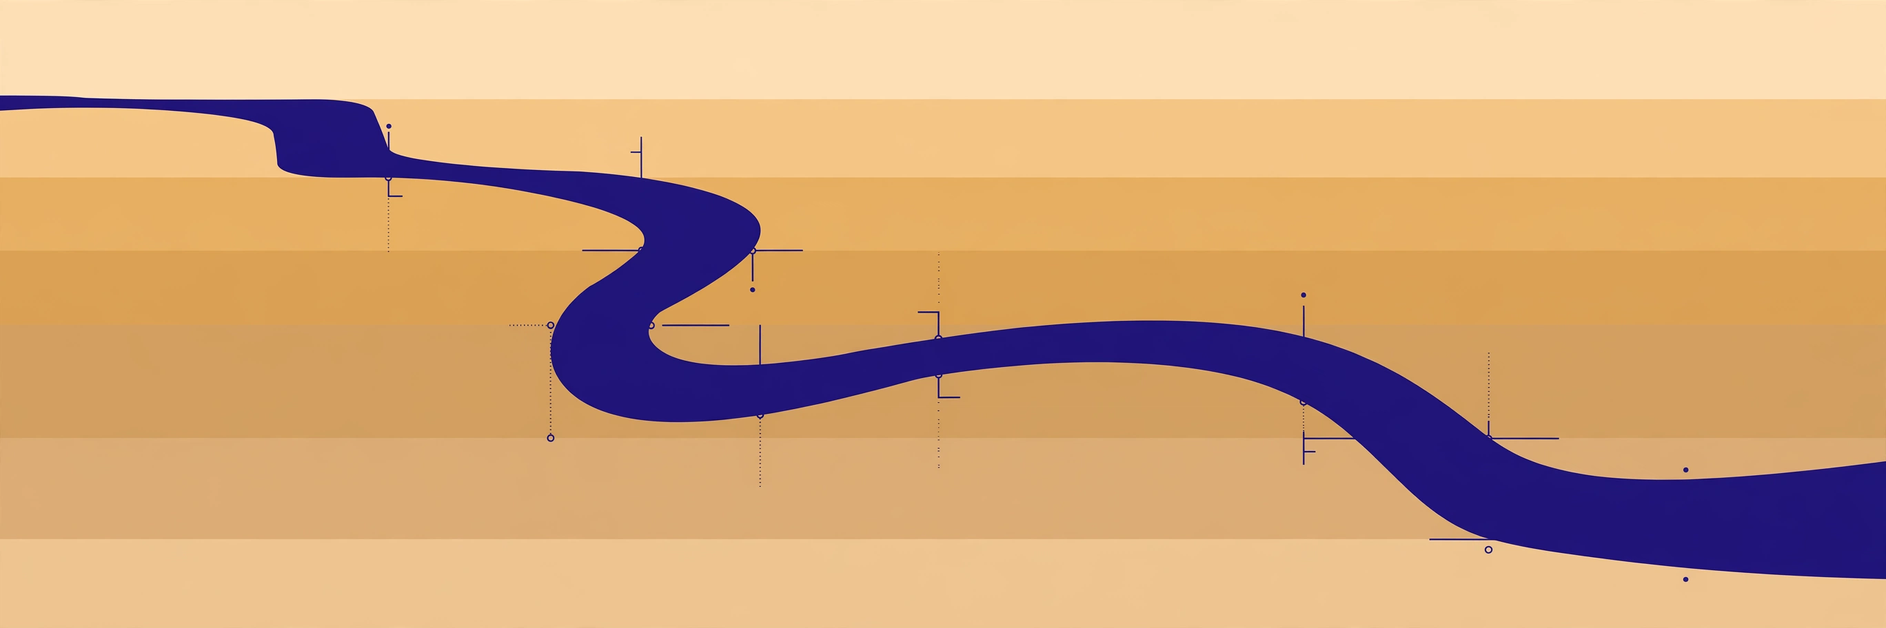
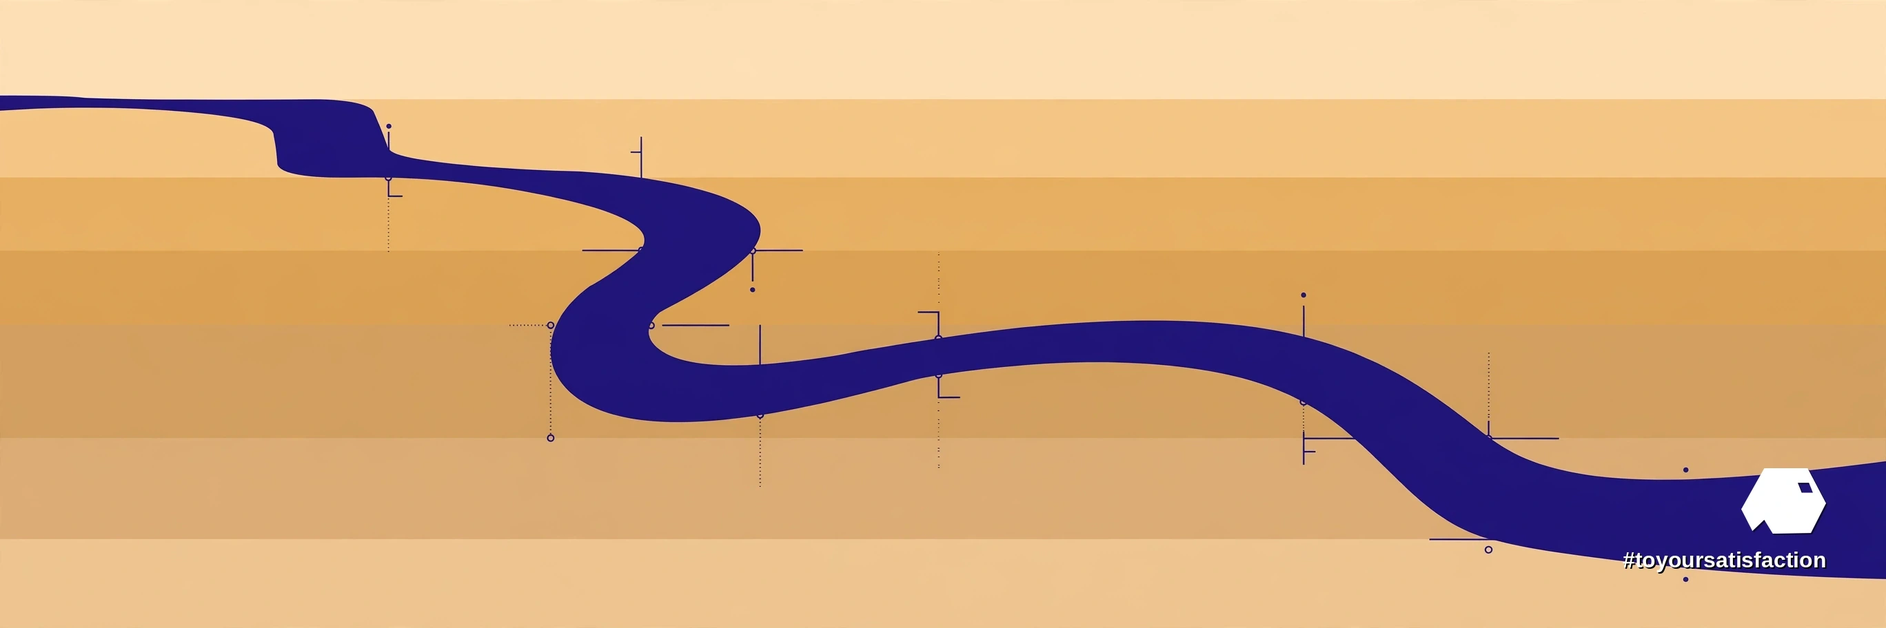
Magazine edition — batch 2

Changed region(s): [[0.8388, 0.7368, 0.9942, 0.9211]]

diff --git a/articles/semantic-layer-learns-the-business/index.html b/articles/semantic-layer-learns-the-business/index.html
@@ -5,42 +5,82 @@
 <meta name="viewport" content="width=device-width, initial-scale=1">
 <meta http-equiv="Content-Security-Policy" content="default-src 'self'; script-src 'self' 'unsafe-inline'; style-src 'self' 'unsafe-inline'; img-src 'self' data:; connect-src 'self' https://api.mymemory.translated.net; object-src 'none'; base-uri 'self'">
 <title>A Correct Metric Is Only Step One: Teaching the Semantic Layer the Business Itself — Ovia Inc</title>
-<meta name="description" content="The Datus October update (October 31, 2026) moves the semantic layer past metric definitions: Datus Agent 0.4.3/0.4.4 adds an OntologyAnalyst subagent and lineage mined from historical SQL, while Dosi 0.2.0 turns business rules like “Premier Customer” into executable, versioned semantics.">
+<meta name="description" content="The Datus October update (October 31, 2026) moves the semantic layer past metric definitions: Datus Agent 0.4.3/0.4.4 adds an OntologyAnalyst subagent and lineage mined from historical SQL, while Dosi 0.2.0 turns business rules like Premier Customer into executable, versioned semantics.">
 <meta property="og:type" content="article">
 <meta property="og:title" content="A Correct Metric Is Only Step One: Teaching the Semantic Layer the Business Itself">
-<meta property="og:description" content="The Datus October update (October 31, 2026) moves the semantic layer past metric definitions: Datus Agent 0.4.3/0.4.4 adds an OntologyAnalyst subagent and lineage mined from historical SQL, while Dosi 0.2.0 turns business rules like “Premier Customer” into executable, versioned semantics.">
+<meta property="og:description" content="The Datus October update (October 31, 2026) moves the semantic layer past metric definitions: Datus Agent 0.4.3/0.4.4 adds an OntologyAnalyst subagent and lineage mined from historical SQL, while Dosi 0.2.0 turns business rules like Premier Customer into executable, versioned semantics.">
 <meta property="og:url" content="https://oviainc.github.io/ai-services/articles/semantic-layer-learns-the-business/">
 <meta property="og:image" content="https://oviainc.github.io/ai-services/articles/semantic-layer-learns-the-business/ovia-inc-semantic-layer-learns-the-business-hero.webp">
 <meta name="twitter:card" content="summary_large_image">
 <style>
-  :root{--bg:#0A0E14;--accent:#2E9BD6;--text:#FFFFFF;--muted:#B9C4CE;}
+  :root{--bg:#0A0E14;--panel:#101823;--text:#FFFFFF;--muted:#B9C4CE;--line:#22303E;--accent:#7C8CF8;}
   *{box-sizing:border-box;margin:0;padding:0;}
-  body{background:var(--bg);color:var(--text);font-family:-apple-system,BlinkMacSystemFont,"Segoe UI",Roboto,Helvetica,Arial,sans-serif;line-height:1.65;}
-  main{max-width:760px;margin:0 auto;padding:32px 20px 48px;}
-  .langbar{display:flex;justify-content:flex-end;align-items:center;gap:10px;margin-bottom:18px;}
-  .langbar label{color:var(--muted);font-size:.85rem;letter-spacing:.08em;text-transform:uppercase;}
-  .langbar select{background:#101823;color:var(--text);border:1px solid #1E2A36;border-radius:8px;padding:6px 10px;font-size:.95rem;max-width:60vw;}
-  .kicker{color:var(--accent);font-size:.85rem;letter-spacing:.18em;text-transform:uppercase;margin-bottom:14px;}
-  h1{font-size:2rem;line-height:1.25;margin-bottom:20px;font-weight:700;}
-  h2{font-size:1.3rem;line-height:1.35;margin:28px 0 12px;font-weight:700;color:var(--accent);}
-  img.hero{width:100%;height:auto;border-radius:10px;display:block;margin-bottom:28px;}
-  p{margin-bottom:16px;color:var(--text);}
-  p.tags{color:var(--accent);font-size:.95rem;}
-  ul.refs{list-style:none;margin-bottom:16px;}
-  ul.refs li{margin-bottom:10px;color:var(--muted);font-size:.95rem;}
+  body{background:var(--bg);color:var(--text);font-family:Georgia,'Times New Roman',Times,serif;line-height:1.6;}
+  a{color:var(--accent);}
+  .sans{font-family:-apple-system,BlinkMacSystemFont,"Segoe UI",Roboto,Helvetica,Arial,sans-serif;}
+  /* masthead zone over the article background image */
+  .mastzone{position:relative;overflow:hidden;border-bottom:1px solid var(--line);}
+  .mast-bg{position:absolute;inset:0;background-size:cover;background-position:center;opacity:.22;}
+  .mast-shade{position:absolute;inset:0;background:linear-gradient(180deg,rgba(10,14,20,.52),rgba(10,14,20,.94));}
+  .mast-inner{position:relative;max-width:1180px;margin:0 auto;padding:24px 22px 42px;}
+  .masthead{display:flex;align-items:center;gap:16px;flex-wrap:wrap;}
+  .masthead a.logo{display:block;line-height:0;}
+  .masthead img.logo{height:46px;width:auto;display:block;}
+  .wordmark{font-family:-apple-system,BlinkMacSystemFont,"Segoe UI",Roboto,Helvetica,Arial,sans-serif;letter-spacing:.34em;font-size:13px;text-transform:uppercase;color:var(--text);}
+  .langbar{display:flex;align-items:center;gap:10px;margin-left:auto;}
+  .langbar label{color:var(--muted);font-size:.8rem;letter-spacing:.08em;text-transform:uppercase;font-family:-apple-system,BlinkMacSystemFont,"Segoe UI",Roboto,Helvetica,Arial,sans-serif;}
+  .langbar select{background:#101823;color:var(--text);border:1px solid var(--line);border-radius:8px;padding:6px 10px;font-size:.95rem;max-width:52vw;}
+  .kicker{color:var(--accent);font-size:.85rem;letter-spacing:.3em;text-transform:uppercase;margin:44px 0 16px;font-family:-apple-system,BlinkMacSystemFont,"Segoe UI",Roboto,Helvetica,Arial,sans-serif;}
+  h1.display{font-family:"Arial Narrow Bold","Franklin Gothic Medium",Impact,Haettenschweiler,"Helvetica Neue Condensed Bold",sans-serif;text-transform:uppercase;font-weight:700;font-size:clamp(2.5rem,6.4vw,4.7rem);line-height:.99;letter-spacing:.004em;max-width:1020px;}
+  .standfirst{font-size:clamp(1.12rem,2.3vw,1.42rem);font-style:italic;color:var(--muted);max-width:780px;line-height:1.5;margin-top:18px;}
+  .byline{font-family:-apple-system,BlinkMacSystemFont,"Segoe UI",Roboto,Helvetica,Arial,sans-serif;font-size:.74rem;letter-spacing:.2em;text-transform:uppercase;color:var(--muted);border-top:1px solid var(--line);margin-top:24px;padding-top:14px;}
+  /* hero */
+  .hero-zone{max-width:1180px;margin:34px auto 0;padding:0 22px;}
+  figure.hero img{width:100%;height:auto;display:block;border-radius:2px;}
+  figcaption{font-family:-apple-system,BlinkMacSystemFont,"Segoe UI",Roboto,Helvetica,Arial,sans-serif;font-size:.78rem;color:var(--muted);padding-top:8px;letter-spacing:.03em;}
+  /* body columns */
+  main{max-width:1180px;margin:0 auto;padding:6px 22px 30px;}
+  .cols{margin-top:30px;font-size:1.16rem;line-height:1.75;}
+  @media (min-width:1020px){.cols{column-count:2;column-gap:54px;}}
+  .cols p{margin:0 0 20px;}
+  .cols p.first::first-letter{font-family:"Arial Narrow Bold","Franklin Gothic Medium",Impact,sans-serif;font-size:5.4rem;line-height:.78;float:left;padding:.55rem .9rem 0 0;color:var(--accent);font-weight:700;}
+  h2.sec{font-family:-apple-system,BlinkMacSystemFont,"Segoe UI",Roboto,Helvetica,Arial,sans-serif;font-size:.88rem;letter-spacing:.26em;text-transform:uppercase;color:var(--accent);margin:36px 0 14px;border-top:2px solid var(--accent);padding-top:14px;break-after:avoid;}
+  h2.sec:first-child{margin-top:0;}
+  blockquote.pull{column-span:all;font-size:clamp(1.55rem,3.6vw,2.35rem);line-height:1.3;font-style:italic;text-align:center;color:var(--accent);margin:42px 0;padding:4px 12px;}
+  figure.body{margin:4px 0 22px;break-inside:avoid;}
+  figure.wide{column-span:all;margin:30px 0 34px;}
+  figure.body img,figure.wide img{width:100%;height:auto;display:block;border-radius:2px;}
+  .keybox{break-inside:avoid;background:var(--panel);border:1px solid var(--line);border-top:3px solid var(--accent);padding:18px 20px 10px;margin:0 0 24px;font-family:-apple-system,BlinkMacSystemFont,"Segoe UI",Roboto,Helvetica,Arial,sans-serif;}
+  .keybox h3{font-size:.78rem;letter-spacing:.24em;text-transform:uppercase;color:var(--accent);margin-bottom:10px;}
+  .keybox li{margin:0 0 9px 18px;font-size:.95rem;line-height:1.5;}
+  /* references + tags + footer */
+  .refs-sec{margin-top:44px;border-top:1px solid var(--line);padding-top:24px;}
+  .refs-sec h2{font-family:-apple-system,BlinkMacSystemFont,"Segoe UI",Roboto,Helvetica,Arial,sans-serif;font-size:.88rem;letter-spacing:.26em;text-transform:uppercase;color:var(--accent);margin-bottom:14px;}
+  ul.refs{list-style:none;}
+  ul.refs li{margin-bottom:10px;color:var(--muted);font-size:.95rem;font-family:-apple-system,BlinkMacSystemFont,"Segoe UI",Roboto,Helvetica,Arial,sans-serif;}
   ul.refs a{color:var(--accent);text-decoration:none;word-break:break-all;}
   ul.refs a:hover{text-decoration:underline;}
-  footer{border-top:1px solid #1E2A36;margin-top:36px;padding-top:20px;font-size:.95rem;color:var(--muted);}
+  p.tags{color:var(--accent);font-size:.95rem;margin-top:26px;font-family:-apple-system,BlinkMacSystemFont,"Segoe UI",Roboto,Helvetica,Arial,sans-serif;}
+  footer{border-top:1px solid var(--line);margin-top:38px;padding:22px 0 10px;font-size:.95rem;color:var(--muted);font-family:-apple-system,BlinkMacSystemFont,"Segoe UI",Roboto,Helvetica,Arial,sans-serif;}
+  footer .frow{display:flex;align-items:center;gap:14px;flex-wrap:wrap;}
+  footer img.flogo{height:30px;width:auto;display:block;}
   footer a{color:var(--accent);text-decoration:none;}
   footer a:hover{text-decoration:underline;}
-  @media (max-width:600px){h1{font-size:1.55rem;}main{padding:22px 16px 36px;}}
+  footer .ftag{color:var(--text);letter-spacing:.06em;}
+  @media (max-width:640px){.mast-inner{padding:18px 16px 30px;}main,.hero-zone{padding-left:16px;padding-right:16px;}h1.display{font-size:2.35rem;}.cols{font-size:1.08rem;}}
 </style>
 </head>
 <body>
-<main>
-<div class="langbar">
-          <label for="langPick" data-tr>Language</label>
-          <select id="langPick" aria-label="Choose your language">
+<header class="mastzone">
+  <div class="mast-bg" style="background-image:url('ovia-inc-semantic-layer-learns-the-business-background.webp')"></div>
+  <div class="mast-shade"></div>
+  <div class="mast-inner">
+    <div class="masthead">
+      <a class="logo" href="../../" aria-label="Ovia Inc — home"><img class="logo" src="../../assets/ovia-inc-logo-white.webp" alt="Ovia Inc — logo"></a>
+      <span class="wordmark">Ovia Inc — Magazine</span>
+      <div class="langbar">
+        <label for="langPick" data-tr>Language</label>
+        <select id="langPick" aria-label="Choose your language">
             <option value="en">English</option>
             <option value="fr">Français</option>
             <option value="es">Español</option>
@@ -118,28 +158,61 @@
             <option value="lo">ລາວ</option>
             <option value="mn">Монгол</option>
           </select>
-        </div>
-  <p class="kicker" data-tr>Ovia Inc — Articles</p>
-  <h1 data-tr>A Correct Metric Is Only Step One: Teaching the Semantic Layer the Business Itself</h1>
-  <img class="hero" src="ovia-inc-semantic-layer-learns-the-business-hero.webp" alt="Ovia Inc — Flat sand-coloured strata crossed by one deep indigo river of light flowing at different heights, with small indigo markers joining the levels">
-  <h2 data-tr>The October update</h2>
-  <p data-tr>The October update from the Datus team, published October 31, 2026, carries a thesis in its title: teaching the semantic layer the business. Two release trains shipped together. Datus Agent moved to 0.4.3 and 0.4.4, adding a built-in OntologyAnalyst subagent and stronger automatic extraction of lineage and business context from historical SQL, project code and metadata. Dosi, the semantic engine underneath, moved from 0.1.13 to 0.2.0, with Ontology Mapping split into the Apache Ossie standard, Derived Subtypes, level-of-detail calculations across fact tables, native execution on Athena, Redshift and SAP HANA, and hot reloading of models over MCP.</p>
-  <h2 data-tr>From definitions to objects</h2>
-  <p data-tr>A first-generation semantic layer answers one kind of question well: what is the certified definition of revenue, churn, or margin, and which SQL computes the number correctly? The October work pushes past definitions toward objects. The ontology layer names the business entities — customer, order, account — and the relationships between them, then maps those concepts onto the semantic models beneath. An agent equipped with objects can explore: follow a customer into orders, orders into fulfilment, fulfilment into exceptions. The OntologyAnalyst subagent exists precisely for that traversal, using concepts, relationships and mappings to query metrics and detail together rather than treating every question as a lone metric lookup.</p>
-  <h2 data-tr>Rules become executable</h2>
-  <p data-tr>Derived Subtypes carry the argument one step further. A rule such as “Premier Customer” — some combination of tenure, spend and standing that every company defines and few companies write down consistently — becomes executable, versioned semantics: compiled into SQL by the engine, validated like code, reused everywhere the concept applies. The business rule stops living in slide decks and individual memory. Change the rule, and the change is a versioned event with a history, not a quiet edit inside one analyst's query. After definitions come rules; after rules, the layer starts to hold the company's actual decision logic.</p>
-  <h2 data-tr>Lineage from the SQL that already exists</h2>
-  <p data-tr>The adoption path matters as much as the architecture. Rather than demanding a modelling programme before any value appears, the 0.4.3 extraction work mines the estate that already exists — historical SQL, project code, metadata — and derives lineage and business context from the queries the organisation actually ran. Institutional knowledge usually sits in exactly those artefacts: the joins everyone trusts, the filters nobody documented, the exceptions carved out years ago for reasons worth recovering. Mining the record turns archaeology into configuration.</p>
-  <h2 data-tr>What to watch</h2>
-  <p data-tr>Business intelligence and data work at Ovia keeps returning to the same sequence: definitions first, because a wrong metric poisons everything downstream; rules second, because decisions repeat; judgment last, because judgment is what remains once the repeatable parts are encoded honestly. Context engineering is the discipline that connects the three — the layer an agent reasons over is only as trustworthy as the semantics underneath. Watch whether ontology features survive contact with messy real estates, whether versioned business rules become a governance habit, and whether rival semantic engines adopt the same objects-and-rules direction.</p>
-  <p data-tr>A sequencing warning inside the update deserves underlining. Teams often treat ontology work as a phase that begins after the warehouse is clean and the dashboards agree — a reward for maturity rather than a tool for reaching it. The extraction direction argues the opposite: the ontology is how an estate becomes legible in the first place, mined from the SQL the business already runs and sharpened as the rules are made executable. Waiting for a perfect foundation before naming the business properly usually means the naming never happens, and the agents arriving now will reason over whatever semantics exist — documented or not.</p>
-  <h2 data-tr>References</h2>
-  <ul class="refs">
-    <li><span data-tr>Harrison Zhao (Datus) — “Datus October Update: Teaching the Semantic Layer the Business”, Medium, October 31, 2026:</span> <a href="https://medium.com/@linux.hust/datus-october-update-teaching-the-semantic-layer-the-business-datus-blog-7f5401c6abca">https://medium.com/@linux.hust/datus-october-update-teaching-the-semantic-layer-the-business-datus-blog-7f5401c6abca</a></li>
-  </ul>
+      </div>
+    </div>
+    <p class="kicker" data-tr>Ovia Inc — Business Intelligence · Semantic Layer</p>
+    <h1 class="display" data-tr>A Correct Metric Is Only Step One: Teaching the Semantic Layer the Business Itself</h1>
+    <p class="standfirst" data-tr>Definitions first, rules second, judgment last: the Datus and Dosi October work teaches the semantic layer the business itself, not only the metrics.</p>
+    <p class="byline" data-tr>Ovia Inc · Studio and Lab · 6 min read</p>
+  </div>
+</header>
+<div class="hero-zone">
+  <figure class="hero">
+    <img src="ovia-inc-semantic-layer-learns-the-business-hero.webp" alt="Ovia Inc — Flat sand-coloured strata crossed by one deep indigo river of light flowing at different heights, with small indigo markers joining the levels">
+    <figcaption data-tr>Sand strata and one indigo river joining the levels. Image: Ovia Inc</figcaption>
+  </figure>
+</div>
+<main>
+  <div class="cols">
+<p class="first" data-tr>A correct metric is only step one. A semantic layer can compute revenue, churn or margin exactly as certified and still leave an agent, and a team, knowing very little about the business those numbers describe.</p>
+<p data-tr>Definitions answer a narrow question well: which calculation is the approved one, and which SQL produces the number correctly? Business work rarely stops there. Teams ask why a customer changed, which orders sit behind an account, and which exceptions explain a result.</p>
+<p data-tr>The October update from Datus pushes the semantic layer toward that wider work. Rather than treating meaning as a list of metric definitions, the release adds business objects, relationships, executable rules and lineage recovered from the queries an organisation already runs.</p>
+<aside class="keybox"><h3 data-tr>Key points</h3><ul><li data-tr>Datus Agent 0.4.3 and 0.4.4 add a built-in OntologyAnalyst subagent and stronger extraction from historical SQL, project code and metadata.</li><li data-tr>Dosi 0.2.0 splits Ontology Mapping into the Apache Ossie standard and adds Derived Subtypes and level-of-detail calculations across fact tables.</li><li data-tr>Business rules such as Premier Customer become executable, versioned semantics instead of wording held in slides and memory.</li><li data-tr>Definitions come first, rules second and judgment last, because a wrong metric poisons everything built downstream of the number.</li></ul></aside>
+<h2 class="sec" data-tr>01 · The October update</h2>
+<p data-tr>The October update from the Datus team, published October 31, 2026, carries a thesis in its title: teaching the semantic layer the business. Two release trains shipped together. Datus Agent moved to 0.4.3 and 0.4.4, adding a built-in OntologyAnalyst subagent and stronger automatic extraction of lineage and business context from historical SQL, project code and metadata. Dosi, the semantic engine underneath, moved from 0.1.13 to 0.2.0, with Ontology Mapping split into the Apache Ossie standard, Derived Subtypes, level-of-detail calculations across fact tables, native execution on Athena, Redshift and SAP HANA, and hot reloading of models over MCP.</p>
+<p data-tr>Read together, the two trains make a clear claim about direction. The agent side gains a specialist for working with concepts and relationships, while the engine side gains the structures that make those concepts executable across different platforms. Hot reloading over MCP matters in the same story: a model change that can be picked up without a cold restart is a model change teams are more likely to make, review and improve in ordinary work.</p>
+<h2 class="sec" data-tr>02 · From definitions to objects</h2>
+<p data-tr>A first-generation semantic layer answers one kind of question well: what is the certified definition of revenue, churn, or margin, and which SQL computes the number correctly? The October work pushes past definitions toward objects. The ontology layer names the business entities — customer, order, account — and the relationships between them, then maps those concepts onto the semantic models beneath. An agent equipped with objects can explore: follow a customer into orders, orders into fulfilment, fulfilment into exceptions. The OntologyAnalyst subagent exists precisely for that traversal, using concepts, relationships and mappings to query metrics and detail together rather than treating every question as a lone metric lookup.</p>
+<p data-tr>The practical difference shows up in the shape of a question. A metric lookup returns a value and stops. An object traversal can keep the context that gives the value meaning: the account behind the orders, the fulfilment path behind the delay, and the exception that explains why a clean total deserves a second look. That wider path is also where honest caveats belong, because an object view can show where a relationship is mapped confidently and where the underlying model still carries local quirks.</p>
+<blockquote class="pull" data-tr>After definitions come rules; after rules, the layer starts to hold the company's actual decision logic.</blockquote>
+<figure class="body"><img src="ovia-inc-semantic-layer-learns-the-business-body-1.webp" alt="Ovia Inc — Warm sand strata crossed by a deep indigo river, with indigo markers joining the levels"><figcaption data-tr>Layers in warm sand, one indigo river joining the levels. Image: Ovia Inc</figcaption></figure>
+<h2 class="sec" data-tr>03 · Rules become executable</h2>
+<p data-tr>Derived Subtypes carry the argument one step further. A rule such as “Premier Customer” — some combination of tenure, spend and standing that every company defines and few companies write down consistently — becomes executable, versioned semantics: compiled into SQL by the engine, validated like code, reused everywhere the concept applies. The business rule stops living in slide decks and individual memory. Change the rule, and the change is a versioned event with a history, not a quiet edit inside one analyst's query. After definitions come rules; after rules, the layer starts to hold the company's actual decision logic.</p>
+<p data-tr>Versioning is the part that turns a clever feature into an operations habit. When a rule changes, teams need to know when the change took effect, which results were produced under the earlier wording, and who approved the new version. Treated that way, a business rule behaves like any other maintained artefact: reviewed before release, tested against known cases, and open to inspection after the fact instead of reconstructed from memory during a dispute.</p>
+<h2 class="sec" data-tr>04 · Lineage from the SQL that already exists</h2>
+<p data-tr>The adoption path matters as much as the architecture. Rather than demanding a modelling programme before any value appears, the 0.4.3 extraction work mines the estate that already exists — historical SQL, project code, metadata — and derives lineage and business context from the queries the organisation actually ran. Institutional knowledge usually sits in exactly those artefacts: the joins everyone trusts, the filters nobody documented, the exceptions carved out years ago for reasons worth recovering. Mining the record turns archaeology into configuration.</p>
+<figure class="wide"><img src="ovia-inc-semantic-layer-learns-the-business-body-2.webp" alt="Ovia Inc — A sand-toned grid above glowing indigo pathways and connected nodes in deep indigo layers"><figcaption data-tr>An excavation grid over indigo pathways recovered from the layers beneath. Image: Ovia Inc</figcaption></figure>
+<p data-tr>That recovery work deserves respect rather than automation theatre. Historical SQL contains real knowledge, and historical SQL also contains workarounds, dead ends and filters added for a quarter that ended long ago. Mining can surface candidates for lineage and context at a scale manual documentation rarely reaches, but people still have to judge which patterns describe the business and which patterns merely describe an old incident. The craft is in the review, not only in the extraction.</p>
+<h2 class="sec" data-tr>05 · What to watch</h2>
+<p data-tr>Business intelligence and data work at Ovia keeps returning to the same sequence: definitions first, because a wrong metric poisons everything downstream; rules second, because decisions repeat; judgment last, because judgment is what remains once the repeatable parts are encoded honestly. Context engineering is the discipline that connects the three — the layer an agent reasons over is only as trustworthy as the semantics underneath. Watch whether ontology features survive contact with messy real estates, whether versioned business rules become a governance habit, and whether rival semantic engines adopt the same objects-and-rules direction.</p>
+<p data-tr>A sequencing warning inside the update deserves underlining. Teams often treat ontology work as a phase that begins after the warehouse is clean and the dashboards agree — a reward for maturity rather than a tool for reaching it. The extraction direction argues the opposite: the ontology is how an estate becomes legible in the first place, mined from the SQL the business already runs and sharpened as the rules are made executable. Waiting for a perfect foundation before naming the business properly usually means the naming never happens, and the agents arriving now will reason over whatever semantics exist — documented or not.</p>
+<p data-tr>The closing lesson is modest and demanding. Start with trusted definitions, name the objects teams talk about, make one repeated rule executable and versioned, and let real questions decide what comes next.</p>
+
+  </div>
+  <div class="refs-sec">
+    <h2 data-tr>References</h2>
+    <ul class="refs">
+<li><span data-tr>Harrison Zhao (Datus) — “Datus October Update: Teaching the Semantic Layer the Business”, Medium, October 31, 2026:</span> <a href="https://medium.com/@linux.hust/datus-october-update-teaching-the-semantic-layer-the-business-datus-blog-7f5401c6abca">https://medium.com/@linux.hust/datus-october-update-teaching-the-semantic-layer-the-business-datus-blog-7f5401c6abca</a></li>
+
+    </ul>
+  </div>
   <p class="tags">#BusinessIntelligence #SemanticLayer #DataEngineering #toyoursatisfaction</p>
   <footer>
-    <p><a href="../../">Ovia Inc</a> · Source on GitHub: <a href="https://github.com/Oviainc/ai-services">github.com/Oviainc/ai-services</a></p>
+    <div class="frow">
+      <a href="../../" aria-label="Ovia Inc — home"><img class="flogo" src="../../assets/ovia-inc-logo-white.webp" alt="Ovia Inc — logo"></a>
+      <span><a href="../../">Ovia Inc</a> · <span data-tr>Source on GitHub:</span> <a href="https://github.com/Oviainc/ai-services">github.com/Oviainc/ai-services</a></span>
+      <span class="ftag">#toyoursatisfaction</span>
+    </div>
   </footer>
 </main>
 <script>
